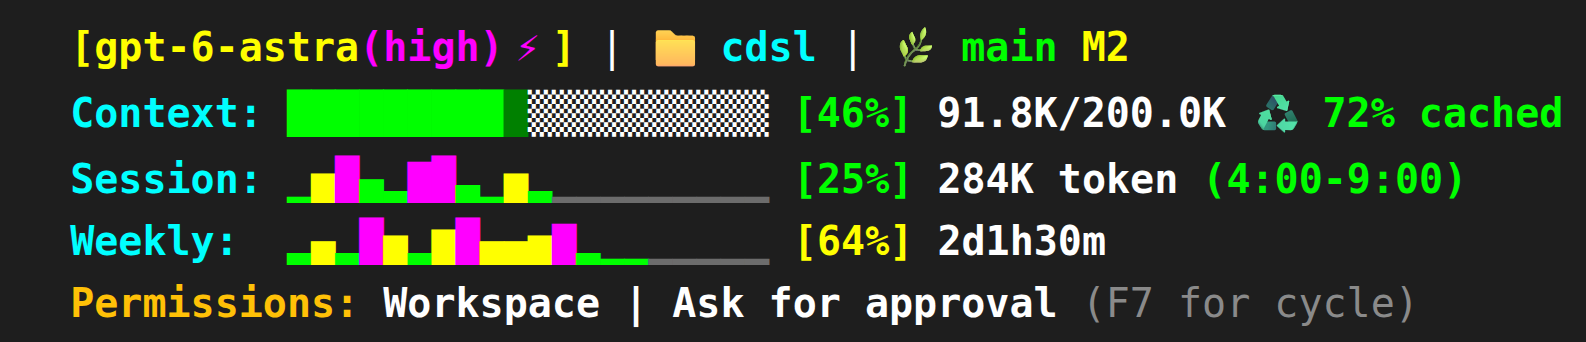
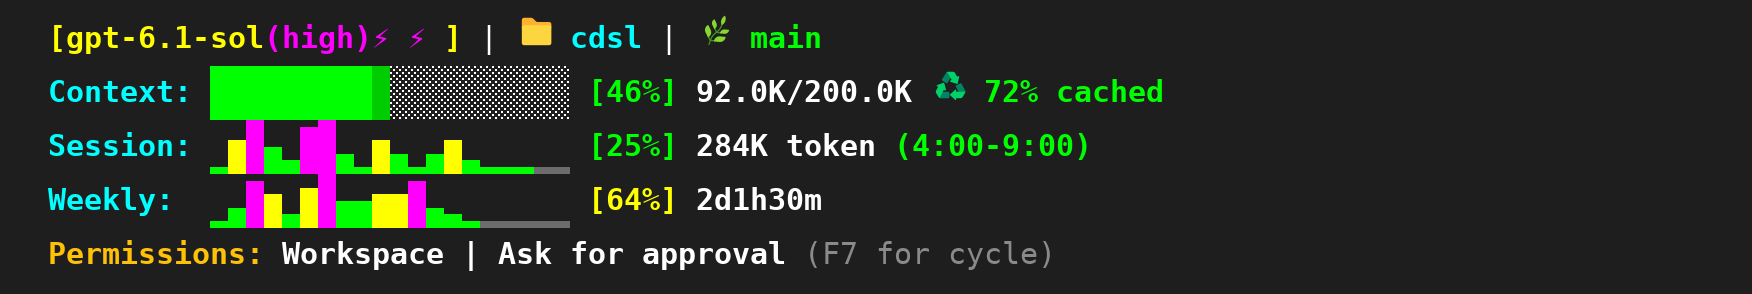
Ultrafastを雷2つで識別表示（v1.0.5） (#17)

Changed region(s): [[0.0309, 0.0612, 0.9887, 0.7959], [0.0309, 0.8265, 0.896, 0.949]]

diff --git a/cdsl/renderer.py b/cdsl/renderer.py
@@ -100,10 +100,13 @@ def _context(snapshot: dict, now: datetime) -> dict:
     cache_ratio = min(100, (_number(snapshot.get("cache_ratio")) or 0) * 100)
     directory = _text(snapshot.get("cwd"), ".")
     effort = snapshot.get("reasoning_effort")
+    speed = snapshot.get("speed_mode")
+    if speed is None and snapshot.get("fast_mode") is True:
+        speed = "fast"
     return {
         "model": _text(snapshot.get("model"), "Codex"),
         "reasoning_effort": _text(effort).strip() if isinstance(effort, str) else "",
-        "fast_mode": snapshot.get("fast_mode") is True,
+        "speed_mode": speed if speed in ("standard", "fast", "ultrafast") else None,
         "current_dir": _text(snapshot.get("current_dir")) or PurePath(directory).name or directory,
         "git_branch": _text(snapshot.get("git_branch")),
         "modified_files": int(_number(snapshot.get("modified_files")) or 0),
@@ -191,35 +194,40 @@ def _header(context: dict, width: int) -> str:
     model_name = ccsl_render.shorten_model_name(context["model"])
     effort = context["reasoning_effort"]
     effort_suffix = f"({effort})" if effort else ""
-    fast_suffix = (" fast" if _COMPATIBILITY.get() else "⚡") if context.get("fast_mode") is True else ""
+    speed = context.get("speed_mode")
+    speed_suffix = ""
+    if speed == "ultrafast":
+        speed_suffix = " ultrafast" if _COMPATIBILITY.get() else "⚡⚡"
+    elif speed == "fast":
+        speed_suffix = " fast" if _COMPATIBILITY.get() else "⚡"
     show_badge = context["context_size"] >= 1_000_000 and ccsl_render.should_show_1m_badge(context["model"], context["context_size"])
     badge_suffix = "(1M)" if show_badge else ""
-    model = model_name + effort_suffix + fast_suffix + badge_suffix
+    model = model_name + effort_suffix + speed_suffix + badge_suffix
     branch, directory = context["git_branch"], context["current_dir"]
 
     def model_label(size):
-        suffix, fast, badge = effort_suffix, fast_suffix, badge_suffix
+        suffix, speed_label, badge = effort_suffix, speed_suffix, badge_suffix
         short = {"low": "lo", "medium": "med", "high": "hi", "xhigh": "xh"}.get(effort)
-        while display_width(model_name + suffix + fast + badge) > size:
+        while display_width(model_name + suffix + speed_label + badge) > size:
             abbreviated = f"({short})" if suffix and short else ""
-            if abbreviated and display_width(abbreviated + fast + badge) < size:
+            if abbreviated and display_width(abbreviated + speed_label + badge) < size:
                 # Shorten effort only when doing so leaves more room for the model.
                 suffix = abbreviated
                 break
-            if display_width(suffix + fast + badge) < size:
+            if display_width(suffix + speed_label + badge) < size:
                 break
             # Omit whole modifiers when even a shortened model cannot fit beside them.
             if badge:
                 badge = ""
             elif suffix:
                 suffix = ""
-            elif fast:
-                fast = ""
+            elif speed_label:
+                speed_label = ""
             else:
                 break
-        name_size = max(1, size - display_width(suffix + fast + badge))
+        name_size = max(1, size - display_width(suffix + speed_label + badge))
         label = _clip(model_name, name_size)
-        for text, color in ((suffix, colors.BRIGHT_RED), (fast, colors.BRIGHT_MAGENTA),
+        for text, color in ((suffix, colors.BRIGHT_RED), (speed_label, colors.BRIGHT_MAGENTA),
                             (badge, colors.BRIGHT_MAGENTA)):
             if text:
                 label += color + text + colors.BRIGHT_YELLOW
@@ -423,6 +431,8 @@ def render(snapshot: dict, width: int = 80, color: bool = True, compatibility: b
     ISO 8601 or epoch seconds and display in JST. ``now`` fixes render time.
     Unavailable limits show ``[N/A]``; pending percentages show ``[---]``.
     Permission labels describe settings without changing them.
+    ``speed_mode`` distinguishes standard, fast, and ultrafast; legacy
+    ``fast_mode`` snapshots remain supported when no speed mode is supplied.
     Compatibility output uses ASCII graphs and basic ANSI colors.
     """
     if not isinstance(compatibility, bool):

diff --git a/cdsl/collector.py b/cdsl/collector.py
@@ -112,6 +112,7 @@ class SessionReader:
         self._state: dict[str, Any] = {
             "model": None,
             "reasoning_effort": None,
+            "speed_mode": None,
             "fast_mode": None,
             "cwd": None,
             "session_id": None,
@@ -206,6 +207,7 @@ class SessionReader:
         if isinstance(model, str) and model.strip():
             if model != self._state["model"]:
                 self._state["reasoning_effort"] = None
+                self._state["speed_mode"] = None
                 self._state["fast_mode"] = None
             self._state["model"] = model
         if effort_key in settings:
@@ -213,11 +215,17 @@ class SessionReader:
             self._state["reasoning_effort"] = (effort.strip() or None) if isinstance(effort, str) else None
 
     def _service_tier(self, tier: Any) -> None:
-        """Show Fast only when Codex reports a recognized effective tier."""
+        """Identify speed only from a recognized effective Codex service tier."""
         value = tier.strip().lower() if isinstance(tier, str) else ""
+        speed = {
+            "fast": "fast", "priority": "fast", "ultrafast": "ultrafast",
+            "default": "standard", "flex": "standard",
+        }.get(value)
+        self._state["speed_mode"] = speed
+        # Retain the legacy Fast field for existing custom renderers.
         self._state["fast_mode"] = (
-            True if value in {"fast", "priority"}
-            else False if value in {"default", "flex"}
+            True if speed == "fast"
+            else False if speed == "standard"
             else None
         )
 

diff --git a/cdsl/__init__.py b/cdsl/__init__.py
@@ -1,3 +1,3 @@
 """Display Codex session data with CCSL-style formatting."""
 
-__version__ = "1.0.4"
+__version__ = "1.0.5"

diff --git a/README.en.md b/README.en.md
@@ -4,7 +4,7 @@
 
 CDSL is an unofficial tool that adds a CCSL-style status display when you run `codex`. It shows the model and effort, context usage, usage limits, and permissions in five rows at the bottom of your terminal.
 
-![CDSL status display with gpt-6-astra(high) and a pink Fast marker](assets/statusline-preview.png)
+![CDSL status display with gpt-6.1-sol(high) and two pink Ultrafast markers](assets/statusline-preview.png)
 
 The preview uses synthetic values.
 
@@ -198,7 +198,7 @@ python3 "$CDSL_DIR/scripts/cdsl.py" uninstall --codex --purge && hash -r
 | Weekly | Account usage of the weekly limit and time until reset |
 | Permissions | The current conversation's permission scope and approval policy |
 
-Example: `[gpt-6-astra(high)]`. Effort comes from the current conversation log and appears in pink, including its parentheses. It is omitted when unknown and never inferred from global settings. When Codex records Fast in an applied-settings event, a pink Fast marker appears next to the model. Narrow terminals abbreviate effort to `lo`, `med`, `hi`, or `xh` when the model name would otherwise be clipped. Times use JST.
+Example: `[gpt-6-astra(high)]`. Effort comes from the current conversation log and appears in pink, including its parentheses. It is omitted when unknown and never inferred from global settings. When Codex records speed in an applied-settings event, pink lightning markers appear beside the model: one for Fast and two for Ultrafast (for example, `[gpt-6.1-sol(high)⚡⚡]`). Standard, unknown, or unsupported tiers show no speed label. Narrow terminals abbreviate effort to `lo`, `med`, `hi`, or `xh` when the model name would otherwise be clipped. Times use JST.
 
 ### Understanding limits and graphs
 
@@ -263,7 +263,7 @@ The WSL clipboard bridge uses Windows PowerShell to copy selected text to Window
 
 ### Legacy terminals
 
-Narrow terminals shorten labels and hints. Terminals such as `TERM=xterm` without `COLORTERM` use ASCII graphs and basic colors, and spell out Fast as `fast`. Select compatibility output with `CDSL_RENDER_MODE=ascii codex`, or standard output with `CDSL_RENDER_MODE=unicode codex`.
+Narrow terminals shorten labels and hints. Terminals such as `TERM=xterm` without `COLORTERM` use ASCII graphs and basic colors, with `fast` for Fast and `ultrafast` for Ultrafast. Select compatibility output with `CDSL_RENDER_MODE=ascii codex`, or standard output with `CDSL_RENDER_MODE=unicode codex`.
 
 ## Configuration and storage
 
